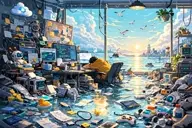
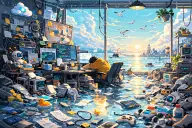
Clarify the full pixel scene and refine pillar and horizon mattes

diff --git a/scene-sky.js b/scene-sky.js
@@ -1,4 +1,5 @@
-import { skyApertures, skyForeground, skyWires, sillSkyEdge } from './scene-sky-matte.js?v=20261111-edge45';
+import { prepareShelfMatte } from './scene-shelf-matte.js?v=20261111-clarity46';
+import { skyApertures, skyForeground, skyWires, sillSkyEdge } from './scene-sky-matte.js?v=20261111-clarity46';
 const surface=(w,h)=>{const c=document.createElement('canvas');c.width=w;c.height=h;return c;};
 const smooth=t=>t*t*(3-2*t);
 // Lighting follows the complete visible sky. Motion has its own foreground
@@ -12,6 +13,7 @@ export function* prepareSky(scene){
  const wires=surface(w,h),wire=wires.getContext('2d');wire.translate(-x0,-y0);wire.strokeStyle='#fff';wire.lineCap='round';wire.lineJoin='round';
  for(const {points,width}of skyWires){wire.lineWidth=width;wire.beginPath();points.forEach(([x,y],i)=>i?wire.lineTo(x,y):wire.moveTo(x,y));wire.stroke();}
  const wirePixels=wire.getImageData(0,0,w,h).data,lightMask=new Uint8Array(w*h),mask=surface(w,h),m=mask.getContext('2d'),alpha=m.createImageData(w,h),destinations=[];
+ const shelf=prepareShelfMatte(scene);
  const plate=scene.plate.data,original=scene.original.data,foliage=scene.foliageMattes.filter(p=>p.y<430);
  for(let y=0;y<h;y++){
   for(let x=0;x<w;x++){
@@ -26,29 +28,46 @@ export function* prepareSky(scene){
    if(wx>=1388&&wx<=1418&&wy>=249&&wy<=300&&original[i+1]-original[i]>6&&original[i+2]-original[i]>10&&original[i+2]>=original[i+1]){
     for(let k=1;k<sillSkyEdge.length;k++){const[a,b]=sillSkyEdge[k-1],[c,d]=sillSkyEdge[k];if(wy>=b&&wy<=d){boardRimSky=Math.abs(wx-(a+(c-a)*(wy-b)/(d-b)))<4;break;}}
    }
-   const visible=(area[j]>250||boardRimSky)&&!lamp&&!fixedLeaf&&!wireEdge;
-   lightMask[n]=visible&&!originalLeaf?1:0;
-   alpha.data[j+3]=visible?255:0;if(visible)destinations.push(n);
+   let amount=(area[j]>250||boardRimSky)&&!lamp&&!fixedLeaf&&!wireEdge?255:0;
+   if(wx>=shelf.x&&wx<shelf.x+shelf.w&&wy>=shelf.y&&wy<shelf.y+shelf.h){const a=shelf.coverage[(wy-shelf.y)*shelf.w+wx-shelf.x];if(a>=0)amount=a;}
+   // Calm distant water replaces the removed shore fragments. A two-pixel
+   // transition joins the cloud layer to the water without a hard cutoff.
+   const horizon=amount>0&&wy>=426&&((wx>=734&&wx<832)||(wx>=858&&wx<1115));
+   if(horizon){const sx=wx<965?974+(wx%17):wx,sy=456+(wy-426),k=(sy*1536+sx)*4;for(let ch=0;ch<3;ch++)plate[i+ch]=original[k+ch];if(wy>=428)amount=Math.round(amount*(1-smooth((wy-427)/3)));}
+   lightMask[n]=amount===255&&!originalLeaf&&!horizon?1:0;
+   alpha.data[j+3]=amount;if(amount===255)destinations.push(n);
   }
   if(y%60===0)yield .44+.09*y/h;
  }
+ // Continue the clean water beneath the old center-shore silhouettes;
+ // the observer and its aerial are independent foreground sprites.
+ for(let y=430;y<453;y++)for(let x=858;x<1115;x++){
+  const sx=x<965?974+(x%17):x,sy=456+(y-430)%17,i=(y*1536+x)*4,k=(sy*1536+sx)*4;
+  for(let ch=0;ch<3;ch++)plate[i+ch]=original[k+ch];
+ }
+ scene.base.getContext('2d').putImageData(scene.plate,0,0);
  m.putImageData(alpha,0,0);yield .54;
  // Build the loop from unobstructed source-art patches. No columns from
  // behind a window frame, plant, desk or city can travel into the visible sky.
  // Adjacent patches overlap with a smooth crossfade, retaining pixel texture
  // instead of blurring/inpainting large hidden foreground regions.
  const patches=[
-  {x:640,y:140,w:144,h:235}, {x:870,y:80,w:368,h:248},
-  {x:640,y:140,w:144,h:235,flip:true}, {x:870,y:80,w:368,h:248,flip:true},
+  {x:640,y:140,w:144,h:235}, {x:870,y:80,w:368,h:240},
+  {x:640,y:140,w:144,h:235,flip:true}, {x:870,y:80,w:368,h:240,flip:true},
  ];
  const overlap=48,sourceWidth=patches.reduce((sum,p)=>sum+p.w-overlap,0),sourceCanvas=surface(sourceWidth,h),sourceCtx=sourceCanvas.getContext('2d'),sourceImage=sourceCtx.createImageData(sourceWidth,h);
+ // Isolated dark source specks must not repeat across the scrolling sky.
+ const cleanColors=new Map(),skyChannel=(i,c)=>{
+  if(plate[i+1]>=150&&plate[i+2]>=150)return plate[i+c];
+  let rgb=cleanColors.get(i);if(!rgb){rgb=[0,0,0];let count=0;for(const offset of[-4,4,-1536*4,1536*4]){const j=i+offset;if(plate[j+1]<150||plate[j+2]<150)continue;for(let k=0;k<3;k++)rgb[k]+=plate[j+k];count++;}if(count)rgb=rgb.map(v=>v/count);else rgb=Array.from(plate.slice(i,i+3));cleanColors.set(i,rgb);}return rgb[c];
+ };
  const sample=(p,x,y)=>((p.y+Math.floor(y*p.h/h))*1536+p.x+(p.flip?p.w-1-x:x))*4;
  let start=0;
  for(let n=0;n<patches.length;n++){
   const p=patches[n],previous=patches[(n+patches.length-1)%patches.length],length=p.w-overlap;
   for(let y=0;y<h;y++)for(let x=0;x<length;x++){
    const j=(y*sourceWidth+start+x)*4,i=sample(p,x,y),t=x<overlap?smooth(x/overlap):1,other=sample(previous,previous.w-overlap+x,y);
-   for(let c=0;c<3;c++)sourceImage.data[j+c]=t===1?plate[i+c]:plate[other+c]*(1-t)+plate[i+c]*t;
+   for(let c=0;c<3;c++)sourceImage.data[j+c]=t===1?skyChannel(i,c):skyChannel(other,c)*(1-t)+skyChannel(i,c)*t;
    sourceImage.data[j+3]=255;
   }
   start+=length;yield .54+.24*(n+1)/patches.length;

diff --git a/index.html b/index.html
@@ -8,37 +8,38 @@
   <title>jaq/li</title>
   <link rel="icon" href="./assets/favicon.svg" type="image/svg+xml" />
   <link rel="stylesheet" href="./styles.css?v=20261111-days42" />
-  <link rel="preload" href="./assets/scene-seed.webp?v=20261111-scene32" as="image" fetchpriority="high" />
-  <script type="module" src="./scene-intro.js?v=20261111-motion38"></script>
-  <link rel="preload" href="./assets/scene.webp?v=20261110-depth6" as="fetch" crossorigin="anonymous" fetchpriority="low" />
-  <link rel="modulepreload" href="./pixel-scene.js?v=20261111-edge45" />
+  <link rel="preload" href="./assets/scene-seed.webp?v=20261111-clarity46" as="image" fetchpriority="high" />
+  <script type="module" src="./scene-intro.js?v=20261111-clarity46"></script>
+  <link rel="preload" href="./assets/scene.webp?v=20261111-clarity46" as="fetch" crossorigin="anonymous" fetchpriority="low" />
+  <link rel="modulepreload" href="./pixel-scene.js?v=20261111-clarity46" />
   <link rel="modulepreload" href="./scene-extras.js?v=20261111-layer44" />
   <link rel="modulepreload" href="./scene-additions.js?v=20261111-edge45" />
   <link rel="modulepreload" href="./scene-deform.js?v=20261111-layer44" />
   <link rel="modulepreload" href="./scene-fan.js?v=20261111-sky43" />
   <link rel="modulepreload" href="./scene-time.js?v=20261111-layer44" />
   <link rel="modulepreload" href="./scene-beacon.js?v=20261111-layer44" />
-  <link rel="modulepreload" href="./scene-sky-matte.js?v=20261111-edge45" />
-  <link rel="modulepreload" href="./scene-sky.js?v=20261111-edge45" />
+  <link rel="modulepreload" href="./scene-sky-matte.js?v=20261111-clarity46" />
+  <link rel="modulepreload" href="./scene-shelf-matte.js?v=20261111-clarity46" />
+  <link rel="modulepreload" href="./scene-sky.js?v=20261111-clarity46" />
   <link rel="modulepreload" href="./scene-foliage.js?v=20261111-layer44" />
   <link rel="modulepreload" href="./scene-objects.js?v=20261111-sky43" />
-  <link rel="modulepreload" href="./site.config.js?v=20261110-flight11" />
+  <link rel="modulepreload" href="./site.config.js?v=20261111-clarity46" />
   <link rel="modulepreload" href="./scene-details.js?v=20261111-edge45" />
   <link rel="modulepreload" href="./screen-content.js?v=20261111-detail39" />
   <link rel="modulepreload" href="./scene-geometry.js?v=20261110-fps10" />
   <link rel="modulepreload" href="./scene-lights.js?v=20261111-flow28" />
   <link rel="modulepreload" href="./water-ripples.js?v=20261111-flow28" />
   <link rel="modulepreload" href="./navigation.js?v=20261111-detail39" />
-  <script type="module" src="./app.js?v=20261111-edge45"></script>
+  <script type="module" src="./app.js?v=20261111-clarity46"></script>
 </head>
 <body class="home pixel-home">
   <main id="scene-viewport" class="scene-viewport" aria-label="可探索的海边工作室">
     <div id="scene-world" class="scene-world">
       <img id="scene-image" class="scene-image" alt="海边工作室：电脑屏幕通往技术博客，人物通往个人 CV。" />
       <div class="scene-art">
-      <img id="scene-poster" class="scene-poster" data-src="./assets/scene.webp?v=20261110-depth6" alt="" aria-hidden="true" />
+      <img id="scene-poster" class="scene-poster" data-src="./assets/scene.webp?v=20261111-clarity46" alt="" aria-hidden="true" />
       <canvas id="scene-intro" aria-hidden="true"></canvas>
-      <noscript><img class="scene-poster" src="./assets/scene.webp?v=20261110-depth6" style="display:block" alt="" /></noscript>
+      <noscript><img class="scene-poster" src="./assets/scene.webp?v=20261111-clarity46" style="display:block" alt="" /></noscript>
       <canvas id="ascii-canvas" aria-hidden="true"></canvas>
       <canvas id="screen-canvas" aria-hidden="true"></canvas>
       </div>

diff --git a/scene-shelf-matte.js b/scene-shelf-matte.js
@@ -1,0 +1,36 @@
+// Bracket location guided by the generated foreground matte; original scene
+// colors and one-pixel edge coverage are resolved at native resolution.
+const bracketRuns=[[322,1419,1420],[323,1419,1420],[324,1419,1420],[325,1419,1420],[326,1419,1420],[327,1418,1420],[328,1417,1420],[329,1417,1420],[330,1416,1420],[331,1416,1419],[332,1415,1418],[333,1407,1417],[334,1405,1417],[335,1405,1416],[336,1405,1407],[336,1415,1416],[337,1405,1406],[337,1415,1416],[338,1405,1406],[338,1415,1416],[339,1405,1406],[339,1415,1416],[340,1405,1406],[340,1415,1416],[341,1405,1406],[341,1415,1416],[342,1405,1406],[342,1415,1416],[343,1405,1406],[343,1415,1416],[344,1405,1406],[344,1415,1416],[345,1405,1406],[345,1415,1416],[346,1405,1406],[346,1415,1416],[347,1405,1406],[347,1415,1416],[348,1405,1406],[348,1415,1416],[349,1406,1406],[349,1415,1415]];
+const clamp=n=>Math.max(0,Math.min(1,n));
+export function prepareShelfMatte(scene){
+ const x=1399,y=301,w=40,h=129,coverage=new Int16Array(w*h).fill(-1),src=scene.original.data,plate=scene.plate.data;
+ const nearPrior=(px,py)=>bracketRuns.some(([row,left,right])=>Math.abs(row-py)<=4&&px>=left-4&&px<=right+4);
+ const strong=new Uint8Array(w*h);
+ for(let py=309;py<351;py++)for(let px=1401;px<1422;px++){
+  const i=(py*1536+px)*4,r=src[i],g=src[i+1],b=src[i+2];
+  strong[(py-y)*w+px-x]=nearPrior(px,py)&&r>80&&r>g*1.3&&r>b*1.65?1:0;
+ }
+ const edge=(px,py,fx,bx)=>{
+  const i=(py*1536+px)*4,f=(py*1536+fx)*4,b=(py*1536+bx)*4;let dot=0,norm=0;
+  for(let c=0;c<3;c++){const d=src[f+c]-src[b+c];dot+=(src[i+c]-src[b+c])*d;norm+=d*d;}
+  let a=norm>900?clamp(dot/norm):1;if(a<.1)a=0;else if(a>.9)a=1;
+  if(a>0&&a<1)for(let c=0;c<3;c++)plate[i+c]=src[f+c];
+  return Math.round((1-a)*255);
+ };
+ for(let py=y;py<y+h;py++){
+  // Keep the original cream trim and side face; remove only the exterior
+  // fringe. The city and terminal to the right remain separate foreground.
+  const left=py<395?1420:1419,right=py<334?1432:1431;
+  for(let px=1413;px<=right;px++)coverage[(py-y)*w+px-x]=px<left-1?255:px===left-1?edge(px,py,left+1,left-3):0;
+  if(py<350){coverage[(py-y)*w+right+1-x]=edge(right+1,py,right,right+3);for(let px=right+2;px<1438;px++)coverage[(py-y)*w+px-x]=255;}
+  if(py>=309&&py<351)for(let px=1401;px<1422;px++){
+   const n=(py-y)*w+px-x,i=(py*1536+px)*4,r=src[i],g=src[i+1],b=src[i+2];
+   let adjacent=false;for(let dy=-1;dy<=1&&!adjacent;dy++)for(let dx=-1;dx<=1;dx++)if(strong[n+dy*w+dx]){adjacent=true;break;}
+   const priorCore=bracketRuns.some(([row,left,right])=>row===py&&px>=left&&px<=right);
+   const stem=priorCore&&Math.max(r,g,b)<175&&b<r*1.55;
+   const rim=adjacent&&(Math.max(r,g,b)<105||r>b*1.1&&r>g*.95);
+   if(nearPrior(px,py)&&(px<left-1||strong[n]))coverage[n]=strong[n]||rim||stem?0:255;
+  }
+ }
+ return{x,y,w,h,coverage};
+}

diff --git a/app.js b/app.js
@@ -1,8 +1,8 @@
-import { site } from './site.config.js?v=20261110-flight11';
+import { site } from './site.config.js?v=20261111-clarity46';
 import { detailShapes, detailPoint } from './scene-details.js?v=20261111-edge45';
-import { PixelScene } from './pixel-scene.js?v=20261111-edge45';
+import { PixelScene } from './pixel-scene.js?v=20261111-clarity46';
 import { loadSceneImage } from './scene-loader.js?v=20261110-depth6';
-import { sceneIntro } from './scene-intro.js?v=20261111-motion38';
+import { sceneIntro } from './scene-intro.js?v=20261111-clarity46';
 import './navigation.js?v=20261111-detail39';
 
 const viewport = document.querySelector('#scene-viewport');

diff --git a/scene-intro.js b/scene-intro.js
@@ -9,7 +9,7 @@ const alphabet='0123456789ABCDEFGHIJKLMNOPQRSTUVWXYZabcdefghijklmnopqrstuvwxyz@#
 let pixels,points=[],width=0,height=0,progress=0,head=0,timer,frame,done=false,blocked=false,marked=false;
 const hash=i=>{const n=Math.sin(i*127.1+31.7)*43758.5453;return n-Math.floor(n);};
 const seed=new Image();
-seed.src=new URL('./assets/scene-seed.webp?v=20261111-scene32',import.meta.url).href;
+seed.src=new URL('./assets/scene-seed.webp?v=20261111-clarity46',import.meta.url).href;
 
 function schedule(delay=40){
   if(done||blocked||document.hidden||!pixels||timer||frame)return;

diff --git a/pixel-scene.js b/pixel-scene.js
@@ -9,7 +9,7 @@ import { rippleSources } from './water-ripples.js?v=20261111-flow28';
 import { SceneExtras } from './scene-extras.js?v=20261111-layer44';
 import { SceneAdditions, additionalShapes } from './scene-additions.js?v=20261111-edge45';
 import { SceneTime } from './scene-time.js?v=20261111-layer44';
-import { prepareSky, drawSkyLayer } from './scene-sky.js?v=20261111-edge45';
+import { prepareSky, drawSkyLayer } from './scene-sky.js?v=20261111-clarity46';
 import { SceneBeacon } from './scene-beacon.js?v=20261111-layer44';
 
 const W=1536,H=1024;

diff --git a/site.config.js b/site.config.js
@@ -1,5 +1,5 @@
 export const site = {
-  image: './assets/scene.webp?v=20261110-depth6', width: 1536, height: 1024,
+  image: './assets/scene.webp?v=20261111-clarity46', width: 1536, height: 1024,
   // Coordinates refer to the original image, never the viewport.
   hotspots: [
     { id: 'tech', href: './tech/', label: '技术博客', hint: 'TECH BLOG ↗', hintAt: [497, 338], points: '423,347 608,367 600,493 422,478' },

diff --git a/README.md b/README.md
@@ -21,9 +21,9 @@ python3 -m http.server 8081 --bind 0.0.0.0
 
 入口多边形与目标链接位于 `site.config.js`，原图尺寸为 1536 × 1024。首页无上传、拖入图片或密度调整功能。
 
-渲染由 `pixel-scene.js` 完成。房间、人物、城市、水面和天空保留原图颜色与像素轮廓，画面不再全局换字或变化字号。显示画布固定为原图的 1536×1024，CSS 等比例铺满并使用最近邻放大，避免大屏增加渲染缓存；三块屏幕从字形到最终合成都保留 3 倍分辨率，使用覆盖屏幕区域的独立画布（1260×570），避免回落到房间的原图像素；主屏字号 5.6、左屏 6.2、右屏 5.8 源图像素，保留透视。主循环目标 60 Hz，云层随主循环逐帧平移，显示屏 24 Hz，动作使用真实时间。暂停、后台标签页与页面切换会停止调度。
+渲染由 `pixel-scene.js` 完成。房间、人物、城市、水面和天空统一使用从原始 PNG 派生的全局像素化底图，保留构图和细节位置，画面不再全局换字或变化字号。`tools/prepare-pixel-scene.cjs` 只在离线准备时运行：原尺寸 2×2 区域内三个色道跨度均不超过 18 时归并相近色，高反差的细线与叶尖继续保留 1 px 细节；随后整图统一为原图派生的 256 色调色板，不抖动、不增强饱和度，以无损 WebP 保存。场景和动画裁片从同一底图提取，天空、水面和室内采用同一套像素处理。原始 PNG 不修改。显示画布固定为原图的 1536×1024，CSS 等比例铺满并使用最近邻放大，避免大屏增加渲染缓存；三块屏幕从字形到最终合成都保留 3 倍分辨率，使用覆盖屏幕区域的独立画布（1260×570），避免回落到房间的原图像素；主屏字号 5.6、左屏 6.2、右屏 5.8 源图像素，保留透视。主循环目标 60 Hz，云层随主循环逐帧平移，显示屏 24 Hz，动作使用真实时间。暂停、后台标签页与页面切换会停止调度。
 
-`scene-objects.js` 保存海鸥航线、轮廓、水面区域与头发遮挡，供像素场景和保留的旧 ASCII 渲染器共同使用。五只海鸥沿原来的独立曲线飞行并扇翼；浮鸭、船、纸张、罐子等按 `scene-details.js` 和 `scene-floats.js` 的原有周期漂浮。纸张从固定端摆动、衣角轻动、机器人眨眼与换表情、机械云彩色呼吸灯均保留；顶部吊灯每 3.5 秒短暂暗闪一次（约 0.26 秒），仅作用于暖色灯面，随全局暂停和减少动态设置停用；人物躯干和城市保持静止。物体裁片只在初始化提取；完整轮廓包含平板右侧边框、纸张卷边、罐口、手机外壳和玩具车轮。漂浮物裁片使用清晰、不透明的完整轮廓，不携带外围渐变水面；静态补底独立清理约 3 px 的旧边缘。补底按实际水面区域取样，保留暗水面和亮反光，排除相邻物体外壳，避免亮圈和边框残影。鸭子额外去掉与外部相连的蓝色水面，不挖空内部细节。纸张以固定端为轴整张变形，不使用水平分条。漂浮物及纸张只在运动变换时使用局部亚像素采样，避免小角度旋转逐列跳到相邻像素行、形成扫过物体的竖线；场景底图仍按原尺寸和最近邻方式显示，无全屏模糊或额外高分辨率画布。海鸥原位置使用邻近天空色修复。`scene-sky.js` 从原图无遮挡的天空区域构建循环纹理，拼接处重叠渐变，以每秒 12 源图像素持续向右漂移，约 69.3 秒完成一轮；不再左右往返。单个不透明 CanvasPattern 覆盖原天空，避免循环接缝露出静止云层；`scene-sky-matte.js` 按物体完整轮廓保护告示板、显示器亮边、桌边容器、主城、花盆、窗框，以及右侧架子支撑柱、机器人完整外壳和后方终端；天空不再按全局颜色阈值抠选，避免只留下物体的深色碎边、吃掉高光。左窗与中窗下方的旧蓝色岸线、白色花状物已移除，天空延伸到源图 y=430 的平直海平线；右侧主城保留。窗台斜板仅沿外侧窄边清除旧蓝天残色。夕阳单独保留。天空调色采用完整的可见天空遮罩，与云层运动遮罩分离，避免窗柱附近出现漏调色的矩形色块。纹理与遮罩仅在初始化生成；动画不读取画布或逐帧分配图像缓存。
+`scene-objects.js` 保存海鸥航线、轮廓、水面区域与头发遮挡，供像素场景和保留的旧 ASCII 渲染器共同使用。五只海鸥沿原来的独立曲线飞行并扇翼；浮鸭、船、纸张、罐子等按 `scene-details.js` 和 `scene-floats.js` 的原有周期漂浮。纸张从固定端摆动、衣角轻动、机器人眨眼与换表情、机械云彩色呼吸灯均保留；顶部吊灯每 3.5 秒短暂暗闪一次（约 0.26 秒），仅作用于暖色灯面，随全局暂停和减少动态设置停用；人物躯干和城市保持静止。物体裁片只在初始化提取；完整轮廓包含平板右侧边框、纸张卷边、罐口、手机外壳和玩具车轮。漂浮物裁片使用清晰、不透明的完整轮廓，不携带外围渐变水面；静态补底独立清理约 3 px 的旧边缘。补底按实际水面区域取样，保留暗水面和亮反光，排除相邻物体外壳，避免亮圈和边框残影。鸭子额外去掉与外部相连的蓝色水面，不挖空内部细节。纸张以固定端为轴整张变形，不使用水平分条。漂浮物及纸张只在运动变换时使用局部亚像素采样，避免小角度旋转逐列跳到相邻像素行、形成扫过物体的竖线；场景底图仍按原尺寸和最近邻方式显示，无全屏模糊或额外高分辨率画布。海鸥原位置使用邻近天空色修复。`scene-sky.js` 从原图无遮挡的天空区域构建循环纹理，拼接处重叠渐变，以每秒 12 源图像素持续向右漂移，约 69.3 秒完成一轮；不再左右往返。单个不透明 CanvasPattern 覆盖原天空，避免循环接缝露出静止云层；`scene-sky-matte.js` 按物体完整轮廓保护告示板、显示器亮边、桌边容器、主城、花盆、窗框，以及右侧架子支撑柱、机器人完整外壳和后方终端；天空不再按全局颜色阈值抠选，避免只留下物体的深色碎边、吃掉高光。左窗与中窗下方的旧蓝色岸线、白色花状物已移除，天空在源图 y=428–429 用两行覆盖度接入 y=430 的海平线；下方残留的灰色岸线以附近的远水面补齐，浮标机器人和右侧主城保留。窗台斜板仅沿外侧窄边清除旧蓝天残色。`scene-shelf-matte.js` 用图像工具抠图所得的支架轮廓辅助原生像素分层，保留柱子左侧折弯支架的两根细脚，并对柱子的一像素边界去除旧天空混色。`assets/mattes/shelf-support-prior.png` 仅用于离线重建轮廓（`node tools/prepare-shelf-matte.cjs`），网页不下载该图片；主场景采用原始 PNG 的确定性像素整理结果，不采用生成式重制版本。夕阳单独保留。天空调色采用完整的可见天空遮罩，与云层运动遮罩分离，避免窗柱附近出现漏调色的矩形色块。纹理与遮罩仅在初始化生成；动画不读取画布或逐帧分配图像缓存。
 
 `scene-extras.js` 补充十处独立动作：杯口三缕像素蒸汽、小风扇转动、黄色吊牌摆动、窗台植物三组叶片、绿色机器人眨眼与四种表情、右下圆机器人眼睛转动与眨眼、左机架异步活动灯、右机架间歇追逐灯、前景线缆中段浮动、窗前七颗微尘。风扇由 `scene-fan.js` 分为静止背景、三片独立金属扇叶、网罩和轮毂，透明扇叶之间能看到固定背景；`scene-foliage.js` 将吊盆、窗台植物和右侧机架旁的黄绿色垂叶拆成十九组叶片，使用 `scene-deform.js` 连续弯曲、错开相位，茎根与花盆固定；相较初版叶片摆幅增加约 50%，频率增加约 45%，裁片留出完整的摆动空间；每个源像素只分配给一组叶片，三处植物分别统一提取和补底，排除相邻叶片作为背景采样来源。深色轮廓一起移动，跨窗柱部分按窗柱的位置和原有明暗补齐；叶片调色独立于天空遮罩；吊牌在挂点转动，线缆连接端不动。线缆只对小裁片做连续反向采样和预乘透明度插值，避免分条、竖向扫描与暗边。缓存仅在准备阶段提取，逐帧不读取画布、不下载新图、不开独立计时器，随场景统一暂停。
 
@@ -53,9 +53,9 @@ python3 -m http.server 8081 --bind 0.0.0.0
 
 ASCII 仅用于三块电脑屏幕中的代码、波形、频谱与状态信息，以及开场字符生成、页面切换的字符打散/重组。`screen-content.js` 与 `scene-geometry.js` 保留显示器的四角透视；独立的头发与运动纸张遮罩保证高清屏幕位于前景后方，像素边框保留；暂停、旋转、滑动和转场同步两个画布。水面采用低分辨率像素高光、椭圆涟漪与小反光，限制在实际水面区域，并由漂浮物覆盖。
 
-首屏由独立的 `scene-intro.js` 读取约 9 KiB 的 `assets/scene-seed.webp`，用实际字符逐步形成轮廓。真实下载与物体准备进度驱动生成目标；每次最多新增 280 字、刷新最近 180 字。完整场景就绪后释放临时画布和数组，不强制等待开场动画。正常访问只下载色彩图和约 366 KiB 的 `scene.webp`；不加载原始 PNG、ASCII 预览、色彩底光、字形图集或旧 Worker 模块。加载失败或禁用 JavaScript 时显示静态像素图，入口仍可访问。
+首屏由独立的 `scene-intro.js` 读取约 9 KiB 的 `assets/scene-seed.webp`，用实际字符逐步形成轮廓。真实下载与物体准备进度驱动生成目标；每次最多新增 280 字、刷新最近 180 字。完整场景就绪后释放临时画布和数组，不强制等待开场动画。正常访问只下载色彩图和约 452 KiB 的无损 `scene.webp`；不加载原始 PNG、ASCII 预览、色彩底光、字形图集或旧 Worker 模块。加载失败或禁用 JavaScript 时显示静态像素图，入口仍可访问。
 
-旧 `ascii-renderer.js`、Worker 与图集代码暂保留为历史参考及旧画面导出工具，首页不加载它们。`tools/prepare-scene.cjs` 仍可更新原图 WebP 和加载色彩图；其中 ASCII 预览/底光输出不参与当前首页。
+旧 `ascii-renderer.js`、Worker 与图集代码暂保留为历史参考及旧画面导出工具，首页不加载它们。`tools/prepare-scene.cjs` 调用全局像素整理流程更新 WebP 和加载色彩图；其中 ASCII 预览/底光输出不参与当前首页。
 
 ## 内容映射
 
